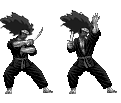
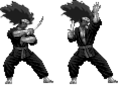
Shinji mejorado

diff --git a/src/Shinji.js b/src/Shinji.js
@@ -2,21 +2,18 @@
 
 export default class Shinji extends Phaser.GameObjects.Sprite {
     constructor(scene, x, y, player,floor) {//Habra que pasarle player1 y player2 para que colisione con ellos 
-        super(scene, x, y, 'Snormalattack','Sstrongattack', 'Shinjiidle', 'Shinjijump', 'Shinjiwalk');
+        super(scene, x, y, 'Shinjinormalattack','Shinjistrongattack', 'Shinjiidle', 'Shinjijump', 'Shinjiwalk');
         scene.add.existing(this).setScale(1.2, 1.2);
 
         scene.physics.add.existing(this);
         scene.physics.add.collider(this, floor);
         this.body.setSize(35, 65);
-        this.body.setOffset(15, 30);
+        this.body.setOffset(15, 20);
         this.hit = false;
         this.eliminate = false;
         this.jumps = 0
         this.attacking = false;
-        this.nattacking = false;
-        this.moving = false;
-        this.jumping = false;
-        this.left = false;
+        this.onAir = false;
         this.vida = 300;
         this.name = 'Shinji';
 
@@ -51,117 +48,85 @@ export default class Shinji extends Phaser.GameObjects.Sprite {
             repeat: 0
         });
         this.on('animationcomplete', end => {//Detecta que ha finalizado la explosion
-            if (this.anims.currentAnim.key === 'Snormalattack') {
-               // this.body.setVelocityX(0);
-                this.attacking = false;
-                this.nattacking = false;
-            }
-        })
-        this.on('animationcomplete', end => {//Detecta que ha finalizado la explosion
-            if (this.anims.currentAnim.key === 'Sstrongattack') {
-               // this.body.setVelocityX(0);
+            if (this.anims.currentAnim.key === 'Snormalattack' || this.anims.currentAnim.key === 'Sstrongattack') {
                 this.attacking = false;
             }
         })
-        this.on('animationcomplete', end => {//Detecta que ha finalizado la explosion
-            if (this.anims.currentAnim.key === 'Sjump') {
-               // this.body.setVelocityX(0);
-
-            }
-        })
+        this.wKey = this.scene.input.keyboard.addKey('up');
+        this.aKey = this.scene.input.keyboard.addKey('left');
+        this.dKey = this.scene.input.keyboard.addKey('right');
+        this.gKey = this.scene.input.keyboard.addKey('P');
+        this.hKey = this.scene.input.keyboard.addKey('O'); 
 
 
 
         this.play('Sidle');
-        this.wKey = this.scene.input.keyboard.addKey('up'); 
-        this.aKey = this.scene.input.keyboard.addKey('left'); 
-        this.dKey = this.scene.input.keyboard.addKey('right'); 
-        this.gKey = this.scene.input.keyboard.addKey('ctrl');
-        this.hKey = this.scene.input.keyboard.addKey('shift'); 
+    
     }
 
     preUpdate(t, dt) {
         super.preUpdate(t, dt);
         if (this.body.onFloor()) {
             this.jumps = 0;
-            this.jumping = false;
+            this.onAir = false;
         }
-        if (this.aKey.isDown && this.dKey.isDown) {
+
+        if (this.dKey.isDown && this.aKey.isDown) {
             this.body.setVelocityX(0);
-            if (!this.attacking && !this.jumping) {
-                if (this.anims.currentAnim.key !== 'Sidle') {
-                    this.play('Sidle');
-                    this.body.setOffset(15, -20);
-                }
-            }
+            if (!this.onAir && !this.attacking && this.anims.currentAnim.key !== 'Sidle') { this.play('Sidle'); this.body.setOffset(15, 20); this.setPosition(this.x, this.y - 20); }
+            else if (!this.attacking && this.onAir && this.anims.currentAnim.key !== 'Sjump') { this.play('Sjump'); this.body.setOffset(10, 5); }
         }
         else if (this.aKey.isDown) {
+            this.direction = 0;
+            if (this.onAir || (!this.attacking && !this.onAir)) { this.body.setVelocityX(-160); }
+            else { this.body.setVelocityX(0); }
             if (this.anims.currentAnim.key !== 'Swalk') {
                 this.setFlip(true, false)
-                if (!this.jumping && !this.attacking) {
-                    this.play('Swalk');
-                }
-                if (!this.nattacking&&!this.attacking) {
-                    this.body.setVelocityX(-200);
-                    this.body.setOffset(15, 20);
-                }               
-                this.moving = true;
-                this.left = true;
+                if (!this.attacking && !this.onAir) { this.play('Swalk'); this.body.setOffset(0, 15); if (this.anims.currentAnim.key !== 'Sidle') this.setPosition(this.x, this.y - 20); }
+                else if (!this.attacking) { this.play('Sjump'); this.body.setOffset(10, 5); }
             }
         }
         else if (this.dKey.isDown) {
+            this.direction = 1;
+            if (this.onAir || (!this.attacking && !this.onAir)) { this.body.setVelocityX(160); }
+            else { this.body.setVelocityX(0); }
+
             if (this.anims.currentAnim.key !== 'Swalk') {
-                this.setFlip(false, false)
-                if (!this.jumping && !this.attacking) {
-                    this.play('Swalk');
-                }
-                if (!this.nattacking && !this.attacking) {
-                    this.body.setVelocityX(200);
-                    this.body.setOffset(15, 20);
-                }    
-                this.moving = true;
-                this.left = false;
+                this.setFlip(false, false);
+                if (!this.attacking && !this.onAir) { this.play('Swalk'); this.body.setOffset(0, 15); if (this.anims.currentAnim.key !== 'Sidle') this.setPosition(this.x, this.y - 20); }
+                else if (!this.attacking) { this.play('Sjump'); this.body.setOffset(10, 5); }
             }
         }
         else {
-            if (!this.attacking && !this.jumping) {
-                if (this.anims.currentAnim.key !== 'Sidle') {
-                    this.play('Sidle');
-                }
-            }
-          
+            this.body.setVelocityX(0);
+            if (!this.onAir && !this.attacking && this.anims.currentAnim.key !== 'Sidle') { this.play('Sidle'); this.body.setOffset(15, 20); this.setPosition(this.x, this.y - 20); }
+            else if (!this.attacking && this.onAir && this.anims.currentAnim.key !== 'Sjump') { this.play('Sjump'); this.body.setOffset(10, 5); }
         }
-        if (Phaser.Input.Keyboard.JustDown(this.wKey) &&this.jumps<2) {
+
+        if (Phaser.Input.Keyboard.JustDown(this.wKey) && this.jumps < 2) {
             this.jumps++;
-            this.body.setVelocityY(-375);
-            if (this.anims.currentAnim.key !== 'Sjump') {
+            this.body.setVelocityY(-400);
+            this.onAir = true;
+            if (this.anims.currentAnim.key !== 'Sjump' && !this.attacking) {
                 this.play('Sjump');
-                this.jumping = true;
+                this.body.setOffset(10, 5);
             }
         }
-        if (Phaser.Input.Keyboard.JustDown(this.gKey)) {
+        if (Phaser.Input.Keyboard.JustDown(this.gKey) && !this.attacking) {
+            /*new Arma(this.x, this.y, this.arma1, this.direction, this, this.playerOpuesto, 10, this.HUD, 100, 100); */
             if (this.anims.currentAnim.key !== 'Sstrongattack') {
                 this.play('Sstrongattack');
                 this.attacking = true;
-                if (!this.jumping) this.body.setVelocityX(0);
             }
+
         }
-        if (Phaser.Input.Keyboard.JustDown(this.hKey)) {
+        if (Phaser.Input.Keyboard.JustDown(this.hKey) && !this.attacking) {
+            /* new Arma(this.x, this.y, this.arma2, this.direction, this, this.playerOpuesto, 10, this.HUD, 100, 100);*/
             if (this.anims.currentAnim.key !== 'Snormalattack') {
                 this.play('Snormalattack');
-                if (!this.left) this.body.setVelocityX(500);
-                else this.body.setVelocityX(-500);
                 this.attacking = true;
-                this.nattacking = true;
-                
             }
         }
-        
-        if (!this.aKey.isDown && !this.dKey.isDown&&!this.attacking) {
-            this.body.setVelocityX(0);
-
-        }
-
 
     }
 }

diff --git a/src/mainScene.js b/src/mainScene.js
@@ -66,11 +66,11 @@ export class MainScene extends Phaser.Scene {
         this.load.spritesheet('Azazelidle', './assets/img/Azazel/Idle.png', { frameWidth: 150, frameHeight: 150 });
         this.load.spritesheet('Azazelwalk', './assets/img/Azazel/Move.png', { frameWidth: 150, frameHeight: 150 });
         this.load.spritesheet('AzazelBall', './assets/img/AzazelBall.png', { frameWidth: 498, frameHeight: 498 });
-        this.load.spritesheet('Shinjiidle', './assets/img/Shinji/Idle.png', { frameWidth: 59, frameHeight: 103 });
-        this.load.spritesheet('Shinjiwalk', './assets/img/Shinji/run.png', { frameWidth: 46, frameHeight: 85 });
+        this.load.spritesheet('Shinjiidle', './assets/img/Shinji/Idle.png', { frameWidth: 59, frameHeight: 85 });
+        this.load.spritesheet('Shinjiwalk', './assets/img/Shinji/run.png', { frameWidth: 44, frameHeight: 85 });
         this.load.spritesheet('Shinjijump', './assets/img/Shinji/Jump.png', { frameWidth: 61, frameHeight: 77 });
         this.load.spritesheet('Shinjistrongattack', './assets/img/Shinji/Strong.png', { frameWidth: 63, frameHeight: 87 });
-        this.load.spritesheet('Shinjinormalattack', './assets/img/Shinji/Normal.png', { frameWidth: 63, frameHeight: 87 });
+        this.load.spritesheet('Shinjinormalattack', './assets/img/Shinji/Normal.png', { frameWidth: 62, frameHeight: 69 });
 
         
         //this.loadFont('font', 'fonts/ka1.ttf');//Font del marcador

diff --git a/ASSETS.md b/ASSETS.md
@@ -11,6 +11,8 @@ src- https://www.deviantart.com/rockeyrolley/art/Afro-Samurai-Sprite-Sheet-78116
 Volcan-pixel art
 https://www.pinterest.es/pin/6896205652450226/?_url=https%3A%2F%2Fwww.pinterest.es%2Famp%2Fpin%2F560416747359372102%2F&amp_client_id=CLIENT_ID(_)&mweb_unauth_id=%7B%7Bdefault.session%7D%7D
 Muelle, espacio, castillo  y jungla sacados tambien de https://www.pinterest.es
+-Fondo Menu:
+src- https://www.pinterest.es/pin/446771225546427017/
 -Objetos
 Bola de fuego Azazel
 src- https://www.pinterest.es/pin/883690758107031330/
